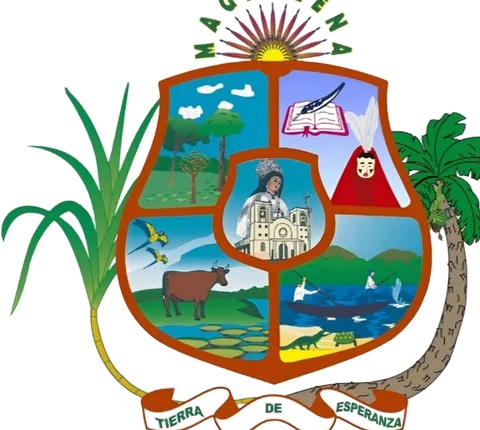
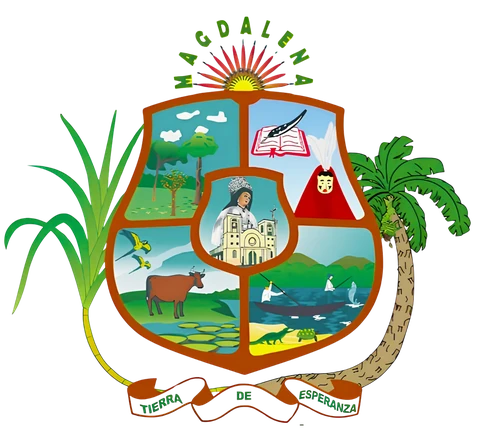
Actualizar escudo, corregir borde del sobre, intro festiva y escudo en nav movil
- Reemplazar escudo por version actualizada (webp optimizado)
- Corregir borde blanco/cafe del sobre en la intro (recorte de imagen + CSS)
- Agregar guirnaldas, confeti y destellos a la intro para un ambiente mas festivo
- Mostrar el escudo junto a "Magdalena 2026" en el nav movil

diff --git a/index.html b/index.html
@@ -93,6 +93,11 @@
             width: 100vw; height: 100vw; max-width: 800px; max-height: 800px;
             background: radial-gradient(circle, rgba(255, 230, 160, 0.45) 0%, rgba(255, 240, 200, 0.15) 40%, transparent 70%);
             z-index: 1; pointer-events: none;
+            animation: resplandor-respira 7s ease-in-out infinite;
+        }
+        @keyframes resplandor-respira {
+            0%, 100% { opacity: .85; transform: translate(-50%, -50%) scale(1); }
+            50%      { opacity: 1;   transform: translate(-50%, -50%) scale(1.07); }
         }
 
        /* ==================================================================
@@ -143,6 +148,70 @@
         }
 
         /* ==================================================================
+           2b. GUIRNALDAS DE BANDERINES (fiesta de plaza, en la paleta oficial)
+           ================================================================== */
+        .guirnalda {
+            position: absolute; top: 0; left: 0; width: 100%;
+            height: clamp(88px, 22vw, 130px);
+            z-index: 3; pointer-events: none;
+            transform-origin: 50% 0;
+            animation: guirnalda-ondea 7s ease-in-out infinite alternate;
+            filter: drop-shadow(0 4px 6px rgba(90, 50, 10, 0.18));
+        }
+        .guirnalda.g-atras {
+            top: 14px; opacity: .5;
+            animation: guirnalda-ondea-atras 8.5s ease-in-out -2.5s infinite alternate;
+        }
+        @keyframes guirnalda-ondea       { from { transform: rotate(.6deg); }           to { transform: rotate(-.6deg); } }
+        @keyframes guirnalda-ondea-atras { from { transform: scaleX(-1) rotate(.7deg); } to { transform: scaleX(-1) rotate(-.7deg); } }
+
+        /* ==================================================================
+           2c. CONFETI ELEGANTE (cae girando, se cruza con las lucesitas)
+           ================================================================== */
+        .confeti {
+            position: absolute; top: -20px; border-radius: 2px;
+            z-index: 2; opacity: 0; pointer-events: none;
+            animation: confeti-cae linear infinite;
+        }
+        @keyframes confeti-cae {
+            0%   { transform: translateY(0) rotateZ(0deg) rotateY(0deg); opacity: 0; }
+            8%   { opacity: .95; }
+            85%  { opacity: .8; }
+            100% { transform: translateY(108vh) rotateZ(var(--giro, 540deg)) rotateY(680deg); opacity: 0; }
+        }
+        .c1  { left: 6%;  width: 7px; height: 12px; background: #C9982A; animation-duration: 10s;   animation-delay: 0s;    --giro: 520deg; }
+        .c2  { left: 14%; width: 6px; height: 10px; background: #2E7D4F; animation-duration: 12s;   animation-delay: 2.5s;  --giro: -480deg; }
+        .c3  { left: 22%; width: 8px; height: 13px; background: #E07A1F; animation-duration: 9.5s;  animation-delay: 1.2s;  --giro: 610deg; }
+        .c4  { left: 31%; width: 6px; height: 11px; background: #F0D48A; animation-duration: 13s;   animation-delay: 3.8s;  --giro: -540deg; }
+        .c5  { left: 40%; width: 7px; height: 12px; background: #1A5730; animation-duration: 11s;   animation-delay: 0.8s;  --giro: 500deg; }
+        .c6  { left: 48%; width: 6px; height: 10px; background: #E3B23C; animation-duration: 10.5s; animation-delay: 4.6s;  --giro: -590deg; }
+        .c7  { left: 57%; width: 8px; height: 13px; background: #E07A1F; animation-duration: 12.5s; animation-delay: 2s;    --giro: 460deg; }
+        .c8  { left: 65%; width: 6px; height: 11px; background: #C9982A; animation-duration: 9s;    animation-delay: 5.4s;  --giro: -620deg; }
+        .c9  { left: 73%; width: 7px; height: 12px; background: #2E7D4F; animation-duration: 11.5s; animation-delay: 1.6s;  --giro: 570deg; }
+        .c10 { left: 81%; width: 6px; height: 10px; background: #F0D48A; animation-duration: 10s;   animation-delay: 3.2s;  --giro: -500deg; }
+        .c11 { left: 89%; width: 8px; height: 13px; background: #C9982A; animation-duration: 12s;   animation-delay: 0.4s;  --giro: 540deg; }
+        .c12 { left: 95%; width: 6px; height: 11px; background: #E07A1F; animation-duration: 9.8s;  animation-delay: 4.2s;  --giro: -560deg; }
+
+        /* ==================================================================
+           2d. DESTELLOS DE CELEBRACIÓN (fuegos artificiales lejanos, muy suaves)
+           ================================================================== */
+        .destello {
+            position: absolute; border-radius: 50%;
+            z-index: 1; opacity: 0; pointer-events: none;
+            background: radial-gradient(circle, rgba(255, 215, 130, 0.55) 0%, rgba(255, 190, 90, 0.18) 45%, transparent 70%);
+            animation: destello-florece 9s ease-in-out infinite;
+        }
+        .d1 { top: 10%; left: 8%;  width: 200px; height: 200px; }
+        .d2 { top: 16%; right: 6%; width: 160px; height: 160px; animation-delay: 3s;
+              background: radial-gradient(circle, rgba(255, 180, 120, 0.5) 0%, rgba(255, 170, 100, 0.15) 45%, transparent 70%); }
+        .d3 { top: 5%;  left: 56%; width: 140px; height: 140px; animation-delay: 6s; }
+        @keyframes destello-florece {
+            0%, 72%, 100% { opacity: 0;  transform: scale(0.3); }
+            78%           { opacity: .85; transform: scale(1); }
+            88%           { opacity: 0;  transform: scale(1.45); }
+        }
+
+        /* ==================================================================
            3. TEXTOS ANIMADOS (ELEGANCIA EN CASCADA Y MÓVIL OPTIMIZADO)
            ================================================================== */
         .textos-fiesta { text-align: center; z-index: 10; margin-bottom: 35px; padding: 0 20px; }
@@ -167,10 +236,11 @@
         .sobre-3d {
             position: relative;
             width: 85vw; max-width: 450px;
-            aspect-ratio: 1.48; 
+            aspect-ratio: 1.48;
             z-index: 10; perspective: 2500px;
             box-shadow: 0 30px 60px rgba(0,0,0,0.25), 0 10px 20px rgba(0,0,0,0.1);
             border-radius: 4px;
+            background: rgb(174, 106, 95);
         }
 
         /* Textura compartida por las piezas */
@@ -183,7 +253,7 @@
 
         /* Cavidad interna del sobre */
         .env-fondo {
-            position: absolute; inset: 2px;
+            position: absolute; inset: 0;
             background: linear-gradient(to bottom, rgb(122, 59, 45), rgb(122, 59, 45));
             border-radius: 4px; z-index: 1;
             box-shadow: inset 0 10px 30px rgba(0,0,0,0.7);
@@ -349,6 +419,8 @@
         @media (prefers-reduced-motion: reduce) {
             .particula-magica, .textos-fiesta h1, .textos-fiesta h2, .textos-fiesta p,
             .texto-presione, .saltar-intro { animation: none !important; opacity: 1; }
+            .guirnalda, .resplandor-centro { animation: none !important; }
+            .confeti, .destello { display: none; }
             #pantalla-invitacion { transition: opacity 0.4s ease; }
         }
 
@@ -470,13 +542,20 @@ nav a:hover, nav a.active {
   
   /* Cabecera elegante exclusiva para celular */
   .nav-mobile-header {
-    display: block;
+    display: flex;
+    align-items: center;
+    gap: 8px;
     font-family: 'Playfair Display', serif;
     font-weight: 700;
     color: var(--forest-dark);
     font-size: 17px;
     letter-spacing: 0.6px;
     text-shadow: 0 1px 2px rgba(255,255,255,.7);
+  }
+  .nav-mobile-escudo {
+    height: 26px;
+    width: auto;
+    filter: drop-shadow(0 1px 3px rgba(90,60,10,.3));
   }
   nav.scrolled .nav-mobile-header {
     color: var(--forest-dark);
@@ -1519,7 +1598,54 @@ footer .footer-line{width:50px;height:1px;background:var(--gold);margin:20px aut
     <div id="pantalla-invitacion">
         
         <div class="resplandor-centro"></div>
-        
+
+        <!-- DESTELLOS DE CELEBRACIÓN (fuegos artificiales lejanos) -->
+        <div class="destello d1"></div>
+        <div class="destello d2"></div>
+        <div class="destello d3"></div>
+
+        <!-- GUIRNALDAS DE BANDERINES CON LUCECITAS -->
+        <svg class="guirnalda g-atras" viewBox="0 0 500 150" preserveAspectRatio="none" aria-hidden="true">
+            <path d="M0,10 Q250,90 500,25" fill="none" stroke="#B08830" stroke-width="2.2" opacity=".9"/>
+            <circle cx="10" cy="12" r="4" fill="rgba(255,224,150,.4)"/><circle cx="10" cy="12" r="2" fill="#FFE9A8"/>
+            <circle cx="70" cy="30" r="4" fill="rgba(255,224,150,.4)"/><circle cx="70" cy="30" r="2" fill="#FFE9A8"/>
+            <circle cx="130" cy="42" r="4" fill="rgba(255,224,150,.4)"/><circle cx="130" cy="42" r="2" fill="#FFE9A8"/>
+            <circle cx="190" cy="50" r="4" fill="rgba(255,224,150,.4)"/><circle cx="190" cy="50" r="2" fill="#FFE9A8"/>
+            <circle cx="250" cy="54" r="4" fill="rgba(255,224,150,.4)"/><circle cx="250" cy="54" r="2" fill="#FFE9A8"/>
+            <circle cx="310" cy="53" r="4" fill="rgba(255,224,150,.4)"/><circle cx="310" cy="53" r="2" fill="#FFE9A8"/>
+            <circle cx="370" cy="49" r="4" fill="rgba(255,224,150,.4)"/><circle cx="370" cy="49" r="2" fill="#FFE9A8"/>
+            <circle cx="430" cy="40" r="4" fill="rgba(255,224,150,.4)"/><circle cx="430" cy="40" r="2" fill="#FFE9A8"/>
+            <circle cx="490" cy="27" r="4" fill="rgba(255,224,150,.4)"/><circle cx="490" cy="27" r="2" fill="#FFE9A8"/>
+            <polygon points="29,22 51,22 40,53" fill="#1A5730"/>
+            <polygon points="89,36 111,36 100,67" fill="#C9982A"/>
+            <polygon points="149,46 171,46 160,77" fill="#E07A1F"/>
+            <polygon points="209,52 231,52 220,83" fill="#F7E7C3" stroke="#C9982A" stroke-width="1"/>
+            <polygon points="269,54 291,54 280,85" fill="#1A5730"/>
+            <polygon points="329,52 351,52 340,83" fill="#C9982A"/>
+            <polygon points="389,45 411,45 400,76" fill="#E07A1F"/>
+            <polygon points="449,33 471,33 460,64" fill="#F7E7C3" stroke="#C9982A" stroke-width="1"/>
+        </svg>
+        <svg class="guirnalda" viewBox="0 0 500 150" preserveAspectRatio="none" aria-hidden="true">
+            <path d="M0,10 Q250,90 500,25" fill="none" stroke="#B08830" stroke-width="2.2" opacity=".9"/>
+            <circle cx="10" cy="12" r="4" fill="rgba(255,224,150,.4)"/><circle cx="10" cy="12" r="2" fill="#FFE9A8"/>
+            <circle cx="70" cy="30" r="4" fill="rgba(255,224,150,.4)"/><circle cx="70" cy="30" r="2" fill="#FFE9A8"/>
+            <circle cx="130" cy="42" r="4" fill="rgba(255,224,150,.4)"/><circle cx="130" cy="42" r="2" fill="#FFE9A8"/>
+            <circle cx="190" cy="50" r="4" fill="rgba(255,224,150,.4)"/><circle cx="190" cy="50" r="2" fill="#FFE9A8"/>
+            <circle cx="250" cy="54" r="4" fill="rgba(255,224,150,.4)"/><circle cx="250" cy="54" r="2" fill="#FFE9A8"/>
+            <circle cx="310" cy="53" r="4" fill="rgba(255,224,150,.4)"/><circle cx="310" cy="53" r="2" fill="#FFE9A8"/>
+            <circle cx="370" cy="49" r="4" fill="rgba(255,224,150,.4)"/><circle cx="370" cy="49" r="2" fill="#FFE9A8"/>
+            <circle cx="430" cy="40" r="4" fill="rgba(255,224,150,.4)"/><circle cx="430" cy="40" r="2" fill="#FFE9A8"/>
+            <circle cx="490" cy="27" r="4" fill="rgba(255,224,150,.4)"/><circle cx="490" cy="27" r="2" fill="#FFE9A8"/>
+            <polygon points="29,22 51,22 40,53" fill="#1A5730"/>
+            <polygon points="89,36 111,36 100,67" fill="#C9982A"/>
+            <polygon points="149,46 171,46 160,77" fill="#E07A1F"/>
+            <polygon points="209,52 231,52 220,83" fill="#F7E7C3" stroke="#C9982A" stroke-width="1"/>
+            <polygon points="269,54 291,54 280,85" fill="#1A5730"/>
+            <polygon points="329,52 351,52 340,83" fill="#C9982A"/>
+            <polygon points="389,45 411,45 400,76" fill="#E07A1F"/>
+            <polygon points="449,33 471,33 460,64" fill="#F7E7C3" stroke="#C9982A" stroke-width="1"/>
+        </svg>
+
         <!-- LLUVIA DE LUCESITAS -->
         <div class="particula-magica p1"></div>
         <div class="particula-magica p2"></div>
@@ -1541,6 +1667,20 @@ footer .footer-line{width:50px;height:1px;background:var(--gold);margin:20px aut
         <div class="particula-magica p18"></div>
         <div class="particula-magica p19"></div>
         <div class="particula-magica p20"></div>
+
+        <!-- CONFETI ELEGANTE QUE CAE -->
+        <div class="confeti c1"></div>
+        <div class="confeti c2"></div>
+        <div class="confeti c3"></div>
+        <div class="confeti c4"></div>
+        <div class="confeti c5"></div>
+        <div class="confeti c6"></div>
+        <div class="confeti c7"></div>
+        <div class="confeti c8"></div>
+        <div class="confeti c9"></div>
+        <div class="confeti c10"></div>
+        <div class="confeti c11"></div>
+        <div class="confeti c12"></div>
         <!-- TEXTOS -->
         <div class="textos-fiesta">
             <h2>¡Feliz 306 Aniversario y Fiesta Patronal!</h2>
@@ -1586,7 +1726,10 @@ footer .footer-line{width:50px;height:1px;background:var(--gold);margin:20px aut
   <div class="nav-inner">
     
     <!-- Este título solo aparecerá en pantallas de celular -->
-    <div class="nav-mobile-header">Magdalena 2026</div>
+    <div class="nav-mobile-header">
+      <img src="imagenes/escudo.webp" class="nav-mobile-escudo" alt="">
+      <span>Magdalena 2026</span>
+    </div>
     
     <input type="checkbox" id="menu-toggle" class="menu-toggle-cb">
     <label for="menu-toggle" class="menu-icon">

diff --git a/afiche.html b/afiche.html
@@ -114,7 +114,7 @@ body{font-family:'Inter',sans-serif;background:#dcd7c8;display:flex;flex-directi
   <span class="af-corner tl"></span><span class="af-corner tr"></span>
   <span class="af-corner bl"></span><span class="af-corner br"></span>
 
-  <img src="imagenes/escudo.png" class="af-escudo" alt="Escudo de Magdalena">
+  <img src="imagenes/escudo.webp" class="af-escudo" alt="Escudo de Magdalena">
   <p class="af-gobierno">Gobierno Autónomo Municipal de Magdalena</p>
   <h1 class="af-title">Magdalena</h1>
   <div class="af-year-row">
